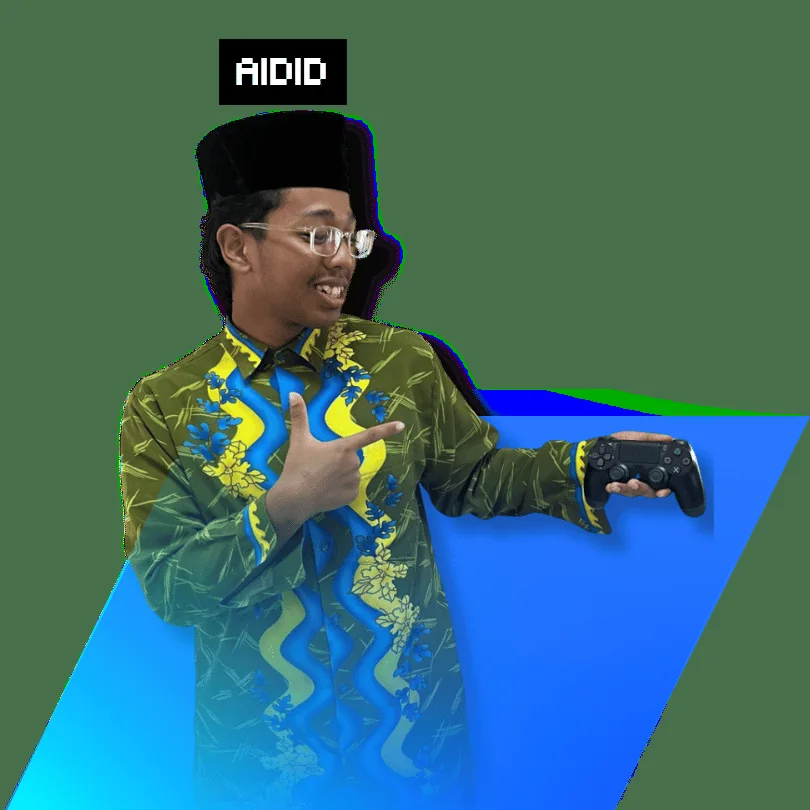
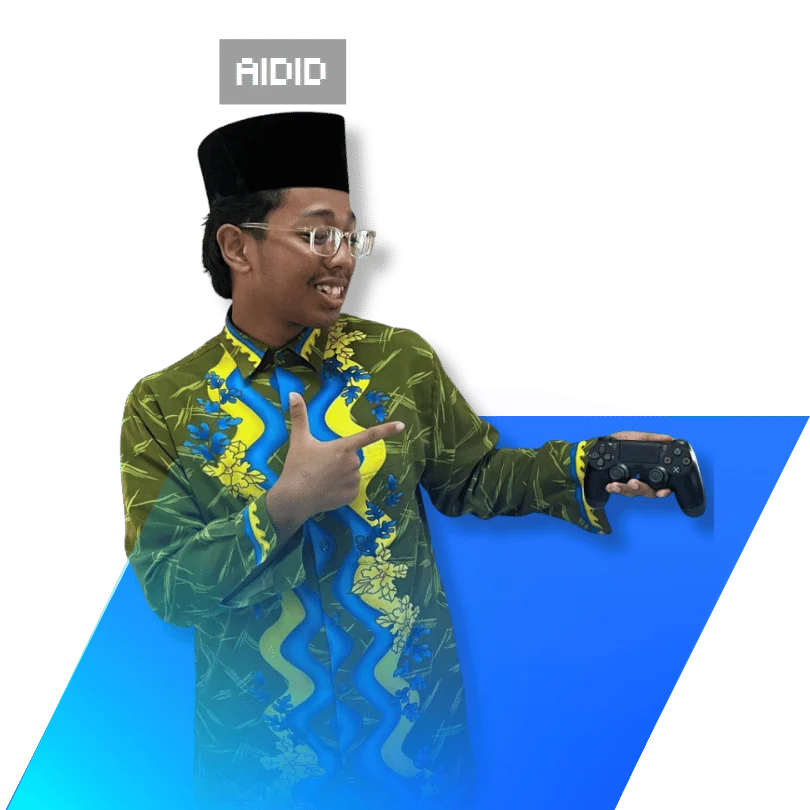
Betulkan saiz & posisi tengah kotak slaid gambar pop-up serta kemas kini gambar Aidid & Ammar Aqil (WebP)

diff --git a/index.html b/index.html
@@ -2113,12 +2113,10 @@ body:has(#hdr.hide) .kader-float-bar{top:8px !important}
   display:flex;justify-content:center;align-items:center;gap:10px;flex-wrap:wrap;
   box-shadow:0 -6px 18px rgba(10,34,96,.08);z-index:5}
 .mdl.pop-flex .mdl-foot.bts-foot{margin-top:0;padding-top:9px;gap:6px;border-top:2.5px solid var(--sky2)}
-.mdl.pop-flex .gal-view,.mdl.pop-flex .krono-stage{max-height:46dvh}
 .mdl.pop-flex .btn-drive{padding:10px 30px 10px 26px;font-size:14px;letter-spacing:.14em}
 .mdl.pop-flex .btn-drive.btn-yt-live{padding:10px 24px 10px 20px;font-size:13.5px;letter-spacing:.1em;background:#d91f26;color:#fff}
 .mdl.pop-flex .btn-drive.btn-yt-live:hover{background:var(--yellow);color:var(--ink)}
 @media (max-width:600px){
-  .mdl.pop-flex .gal-view,.mdl.pop-flex .krono-stage{max-height:36dvh}
   .mdl.pop-flex .mdl-foot{padding:8px 10px 11px;gap:8px}
   .mdl.pop-flex .btn-drive{padding:8px 18px 8px 16px;font-size:12px;letter-spacing:.1em;gap:8px}
   .mdl.pop-flex .btn-drive.btn-yt-live{padding:8px 16px 8px 14px;font-size:11.5px;letter-spacing:.07em}
@@ -2127,7 +2125,10 @@ body:has(#hdr.hide) .kader-float-bar{top:8px !important}
 
 /* Semua paparan gambar & bar thumbnail sentiasa berpusat tepat di tengah pada semua peranti */
 .slot>img{object-position:center center}
-.gal-view,.krono-stage{width:100%;margin-inline:auto}
+.gal-view,.krono-stage{width:min(100%,calc(58dvh * 1.6));max-width:100%;max-height:58dvh;margin-inline:auto}
+@media (max-width:600px){
+  .gal-view,.krono-stage{width:min(100%,calc(50dvh * 1.333));max-height:50dvh}
+}
 .gal-track{width:100%;height:100%}
 .gal-s.slot{flex:0 0 100%;width:100%;height:100%;display:flex !important;align-items:center !important;justify-content:center !important;background:#071538 !important;overflow:hidden}
 .gal-s>img{position:relative !important;inset:auto !important;width:100% !important;height:100% !important;object-fit:contain !important;object-position:center center !important;margin:auto !important;display:block}
